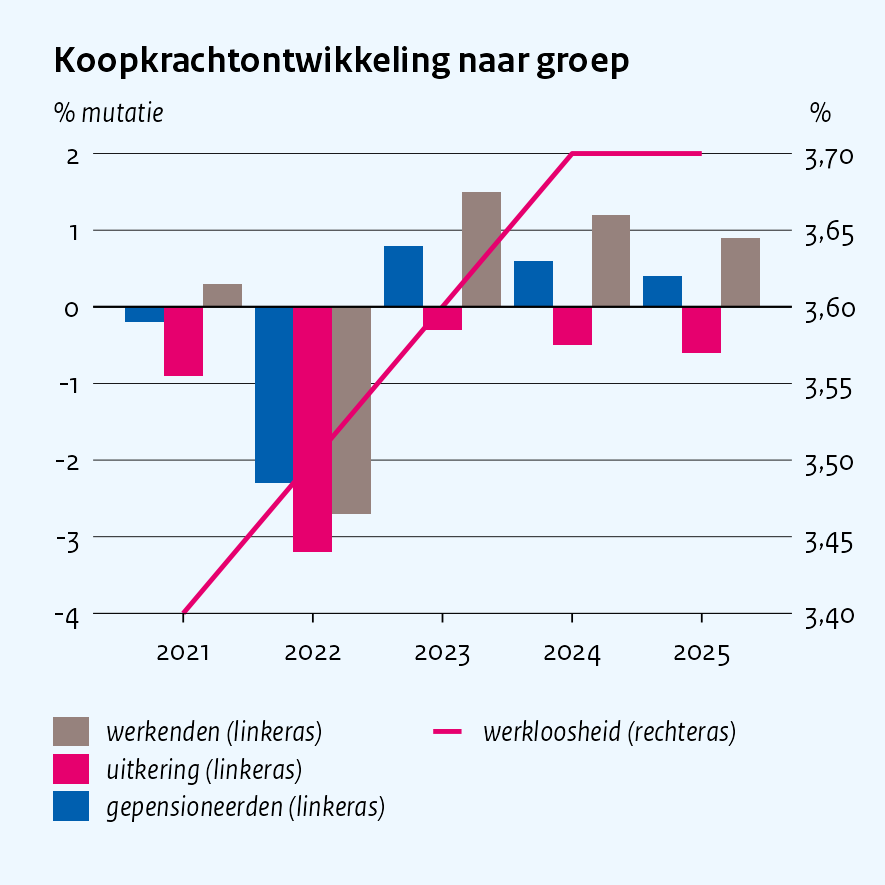
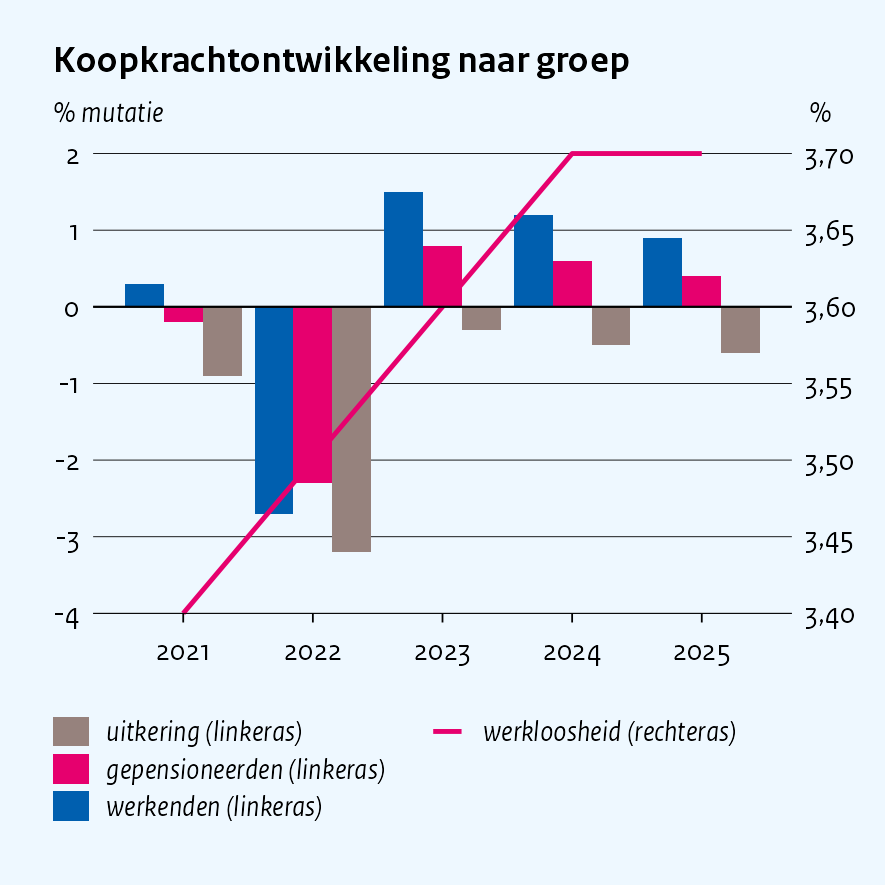
Import: categories keep the row order

diff --git a/doc/import.md b/doc/import.md
@@ -71,6 +71,11 @@ refers to variables by their column names. For example, if a parameter
 contains `jaar`, `cpb_import_csv()` looks for a column named `jaar` in
 the dataset of that figure.
 
+Text columns keep the order of the rows. The first group in the file is
+the first on the axis and in the legend. A number used as `fill`,
+`group` or `colour` (a year, for example) is treated as a category. A
+numeric `colour` in a scatter plot keeps its colour gradient.
+
 Save datasets from Excel as `CSV UTF-8 (comma delimited)`.
 
 # The parameter file
